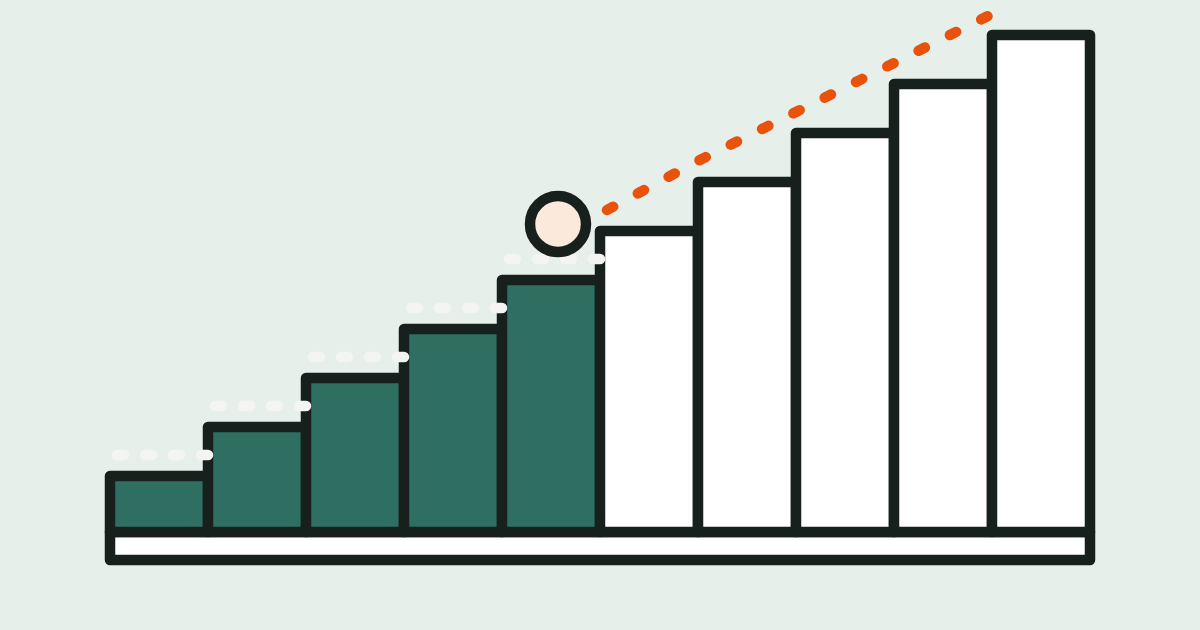
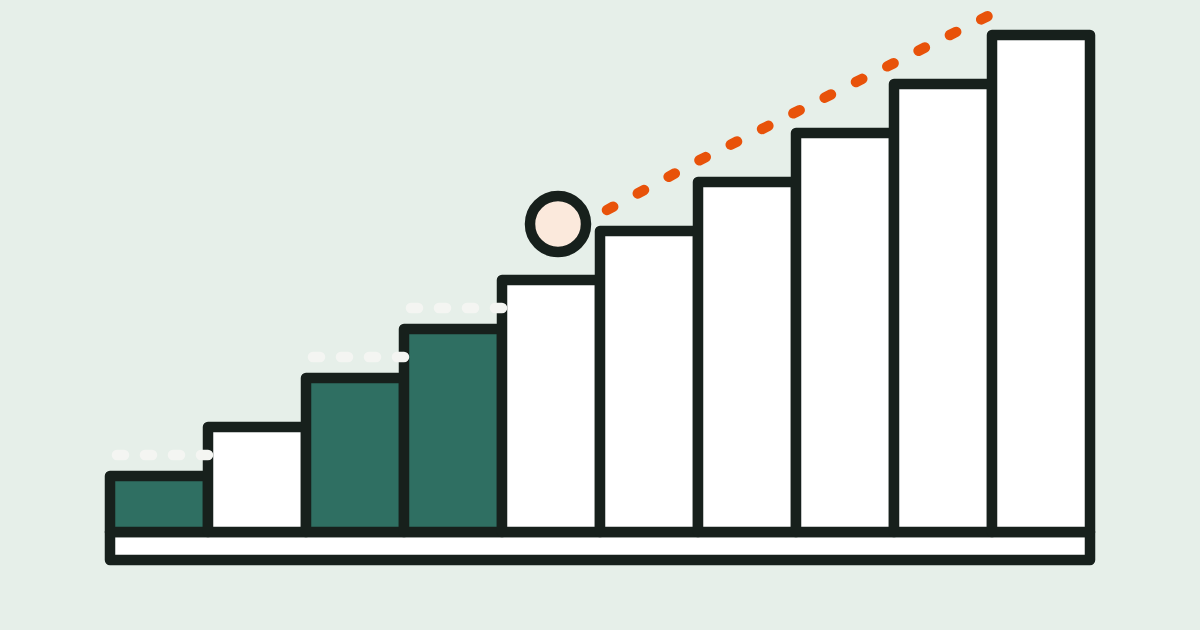
fix(blog): apply validator fixes to wave 4 posts

diff --git a/blog/_src/ten-simple-rules-reproducible-research-revisited/post.md b/blog/_src/ten-simple-rules-reproducible-research-revisited/post.md
@@ -6,16 +6,16 @@ date: 2026-10-19
 updated: 2026-10-19
 tags: reproducibility, provenance, bioinformatics
 summary: Ten rules from a 2013 paper, read against today's workflow tools: which ones tools help with, and which are still open.
-image_alt: A staircase of ten steps where the lower steps are covered in a green carpet and the upper steps are bare, with a small orange dotted line marking the climb.
+image_alt: A staircase of ten steps where only three of the lower steps are filled green and the rest are bare white, with an orange dotted line marking the climb.
 ---
 
-In 2013, Sandve, Nekrutenko, Taylor and Hovig published "Ten Simple Rules for Reproducible Computational Research" in PLOS Computational Biology.[^1] It is a paper we keep coming back to. Workflow engines have changed since 2013, and we wonder how much of the history they now keep for you. So we wanted to go back through the ten rules one at a time and ask: which of them does a tool now help with, which still depend on people, and where are we not sure?
+In 2013, Sandve, Nekrutenko, Taylor and Hovig published "Ten Simple Rules for Reproducible Computational Research" in PLOS Computational Biology.[^1] It is a paper we keep coming back to. So we wanted to go back through the ten rules one at a time and ask: which of them does a tool now help with, which still depend on people, and where are we not sure?
 
 We are quoting the rule headings as printed and paraphrasing as little as we can. We have not tested any tool against the rules, and nothing here is a verdict on a tool or a lab.
 
 ## Does the paper expect tools to help?
 
-It does. The authors note that when analyses run inside an integrated framework, the system may already provide full or partial support for most of the rules.[^1] The rest of this post is, in effect, a question about how far that sentence has come true.
+It does. The authors note that when analyses run inside an integrated framework, the system may already provide full or partial support for most of the rules.[^1] The frameworks they name are GenePattern, Galaxy, LONI Pipeline and Taverna.[^1] We wonder whether workflow engines such as Nextflow and Snakemake now fill a similar role, and the rest of this post asks that rule by rule.
 
 ## The ten rules, and what we found
 
@@ -25,7 +25,7 @@ The rule titles below are quoted from the paper.[^1] The notes after each are wh
 2. **"Avoid Manual Data Manipulation Steps."** The paper says: "Whenever possible, rely on the execution of programs instead of manual procedures to modify data."[^1] A workflow engine records what it runs. We do not see how it could record what happened to a file in a spreadsheet, which makes this rule feel mostly about people.
 3. **"Archive the Exact Versions of All External Programs Used."** Snakemake's documentation describes pinning exact package versions in an environment file, a `<platform>.pin.txt` that freezes an environment, and storing each environment under a hash of its definition.[^5] Nextflow's documentation advises defining a specific version for each tool.[^6] Whether a particular pipeline does so is up to its authors.
 4. **"Version Control All Custom Scripts."** Nextflow's documentation notes that Git and Docker track changes over time with version control.[^6] Whether the *run* knows which commit it used is a separate question we have not tested.
-5. **"Record All Intermediate Results, When Possible in Standardized Formats."** We did not find a source on what engines keep by default, so we leave this open.
+5. **"Record All Intermediate Results, When Possible in Standardized Formats."** Nextflow's lineage page mentions intermediate data, but the feature is experimental and we did not read closely what it keeps, so we leave this open.
 6. **"For Analyses That Include Randomness, Note Underlying Random Seeds."** We found nothing in the documentation we read about engines recording seeds, so we leave this open.
 7. **"Always Store Raw Data behind Plots."** This concerns how figures are made; we found no tool documentation that addresses it.
 8. **"Generate Hierarchical Analysis Output, Allowing Layers of Increasing Detail to Be Inspected."** The paper suggests this as a way of presenting results. We did not look for tools that do it.
@@ -34,7 +34,7 @@ The rule titles below are quoted from the paper.[^1] The notes after each are wh
 
 ## A newer framing
 
-A 2023 paper in Briefings in Bioinformatics by Ziemann, Poulain and Bora names five pillars of computational reproducibility: literate programming, code version control and sharing, compute environment control, persistent data sharing, and documentation.[^2] We find it interesting that environment control and documentation appear as pillars of their own, because those are where a run's history tends to be thin. It is a different cut from the ten rules rather than a replacement, and we have only read the abstract-level description of the pillars closely.
+A 2023 paper in Briefings in Bioinformatics by Ziemann, Poulain and Bora names five pillars of computational reproducibility: literate programming, code version control and sharing, compute environment control, persistent data sharing, and documentation.[^2] We find it interesting that environment control and documentation appear as pillars of their own, because those may be where a run's history is thinnest; we have not checked. It is a different cut from the ten rules rather than a replacement, and we have only read the abstract-level description of the pillars closely.
 
 ## A pattern in the list
 
@@ -51,7 +51,7 @@ For the engine side of rule 1, our guide on [Nextflow provenance and lineage com
 ## Questions we are still asking
 
 - Do engines record random seeds, and if so, where? We did not find it in the documentation we read.
-- What do Nextflow and Snakemake keep as intermediate results by default, and for how long? We left rule 5 open for that reason.
+- What do Nextflow and Snakemake keep as intermediate results, and for how long? We left rule 5 open for that reason.
 - Is the divide we noticed, tools for rules 1, 3 and 4 and people for the rest, real? A broader reading of the documentation might change it.
 - Would a record that marks manual steps as manual change how people behave around rule 2? We do not know.
 - Which of the ten rules would a modern list drop, merge or add? The 2023 paper's five pillars suggest the answer is not obvious.

diff --git a/blog/_src/conda-environments-genomics-export-history-lock/post.md b/blog/_src/conda-environments-genomics-export-history-lock/post.md
@@ -6,7 +6,7 @@ date: 2026-10-19
 updated: 2026-10-19
 tags: conda, environments, provenance
 summary: Three ways to save a conda environment, what each keeps in a small test, and what we still wonder about for genomics.
-image_alt: Three glass jars in a row on a shelf: one holding loose green leaves, one holding a single pressed leaf, and one sealed capsule with an orange dotted line looping around it.
+image_alt: Three glass jars in a row on a shelf: one holding loose green sprigs, one holding a single pressed leaf, and a sealed capsule crossed by a straight orange dotted line.
 ---
 
 Pipelines and analyses often rely on a conda environment, and sooner or later someone asks for it: which tools, which versions, from where? Conda gives you a few ways to write an environment down, and they keep different things. This post compares three of them, shows what each produced in a small test we ran, and lists what we could not settle, especially for genomics work that leans on Bioconda.
@@ -30,7 +30,7 @@ dependencies:
   - tqdm=4.70.1=pyhfa0c392_0
 ```
 
-That is a lot of detail, and it names the channel. The documentation warns that without the `--from-history` flag, installing from such a file can introduce packages that may not be compatible across platforms.[^1] Some of the build strings in our output, like those for compiled libraries, look platform-specific, but we did not test installing the file on another operating system, so that remains a question for us. The same documentation says the recommended way to export is the newer `conda export` command, which also produced YAML for our environment.[^1]
+That is a lot of detail, and it names the channel. The documentation warns that without the `--from-history` flag, installing from such a file can introduce packages that may not be compatible across platforms.[^1] Some of the build strings in our output, like those for compiled libraries, look platform-specific, but we did not test installing the file on another operating system, so that remains a question for us. The same documentation says the recommended way to export is the newer `conda export` command, which also produced YAML for our environment.[^1] The documentation also says native lockfile export needs conda 26.5 or later; we ran 25.11.1 and did not test it.
 
 ## Option 2: only what you asked for
 
@@ -43,13 +43,13 @@ dependencies:
   - tqdm
 ```
 
-Two things stand out. There is no version at all, so tomorrow's install may give a different `tqdm` from today's. And the channel list shows only `defaults`: we had installed from conda-forge using a command-line option, and the history output did not carry that over. We saw this once, in one setup, and we do not know whether it is general. It is a reason to put the channels you rely on in the file yourself.
+Two things stand out. There is no version at all, so tomorrow's install may give a different `tqdm` from today's. And the channel list shows only `defaults`: we had installed from conda-forge using a command-line option, and the history output did not carry that over. The conda documentation's own example for `--from-history` shows conda-forge kept in the output, so our result differs from it. We saw the channel lost in three ways of creating the environment, and we do not know why or whether it is general. It is a reason to put the channels you rely on in the file yourself.
 
 For genomics this matters. Bioconda's own instructions tell users to add the bioconda and conda-forge channels and set strict channel priority, and say the order is important to avoid problems when solving dependencies.[^3] An environment file that loses a channel could solve differently elsewhere, though we have not reproduced that.
 
 ## Option 3: a lock file
 
-A lock file records the resolved packages so that installing does not have to solve again. The conda-lock project describes itself as a lightweight library for generating fully reproducible lock files for conda environments, produced by solving for the platforms you choose, and it can read an `environment.yml` as input.[^2] We read its documentation but did not install or run conda-lock for this post, so we cannot say how it behaves on a real Bioconda environment.
+A lock file records the resolved packages. The conda-lock project advertises solveless installation from its lock files, meaning installing does not have to run the solver again.[^2] The conda-lock project describes itself as a lightweight library for generating fully reproducible lock files for conda environments, produced by solving for the platforms you choose, and it can read an `environment.yml` as input.[^2] We read its documentation but did not install or run conda-lock for this post, so we cannot say how it behaves on a real Bioconda environment.
 
 Conda itself also has an `explicit` export format with platform-specific URLs.[^1] In our test, `conda list --explicit` produced one URL per package, such as `https://conda.anaconda.org/conda-forge/linux-64/libzlib-1.3.2-h25fd6f3_3.conda`. The conda documentation says explicit files are usually limited to a single platform, whereas lock files can support multiple platforms.[^1]
 

diff --git a/blog/_src/samplesheet-traps-that-change-your-run/post.md b/blog/_src/samplesheet-traps-that-change-your-run/post.md
@@ -9,17 +9,17 @@ summary: A samplesheet is an input like any other. Five ways a small CSV goes wr
 image_alt: A spreadsheet grid on a pale background with one cell holding a small ghost, and an orange dotted line leading from the grid to a small stack of pages.
 ---
 
-Many Nextflow pipelines start from a small CSV file: one row per sample, a few columns, and paths to the reads. It looks like configuration, so it tends to be edited by hand, in a spreadsheet, and then forgotten. This post collects a few ways that file can go wrong, some loudly and some quietly, and asks what it would mean to treat the samplesheet as an input that deserves a record.
+Nextflow pipelines commonly start from a small CSV file: one row per sample, a few columns, and paths to the reads. It looks like configuration, so it may be edited by hand, in a spreadsheet, and then forgotten. This post collects a few ways that file can go wrong, some loudly and some quietly, and asks what it would mean to treat the samplesheet as an input that deserves a record.
 
 ## Why the sheet deserves attention
 
-A pipeline can only process what the samplesheet tells it about. If a row is missing, mistyped or points at the wrong file, the pipeline may stop with an error, which is the good case. The bad case is a run that finishes happily with a different set of inputs than you meant. Nothing in the results file will say so.
+A pipeline can only process what the samplesheet tells it about. If a row is missing, mistyped or points at the wrong file, the pipeline may stop with an error, which is the good case. The bad case is a run that finishes happily with a different set of inputs than you meant. The results file may carry no sign of it.
 
 We have not measured how often this happens, and we do not know. What we can do is read what pipeline maintainers and platform documentation say about the failures they have seen.
 
 ## Trap 1: the file that looks right but is not
 
-A public issue on the nf-core/rnaseq repository shows the pattern. A user running version 3.3 got an error that compared two header lines that looked identical: the sheet header against the expected `sample,fastq_1,fastq_2,strandedness`.[^1] The reporter traced it to a bad CSV conversion from Excel, and fixed it by saving the file as UTF-8 without a byte order mark, with Unix line endings instead of Windows ones.[^1]
+A public issue on the nf-core/rnaseq repository shows the pattern. A user running version 3.3 got an error that compared two header lines that looked identical: the sheet header against the expected `sample,fastq_1,fastq_2,strandedness`.[^1] The reporter wrote that it was a bad CSV conversion from Excel, and fixed it by saving the file as UTF-8 without a byte order mark (an invisible marker some programs add at the start of a file), with Unix line endings instead of Windows ones.[^1] A maintainer replied that it had come up a few times but was difficult to test and reproduce, and a fix was merged and the issue closed in October 2021.[^1] We do not know whether current releases are affected.
 
 That is one report about one pipeline version, and we cannot say how common it is. It is a useful illustration, though: characters that you cannot see in a spreadsheet can change what a program reads. If you open a CSV in a spreadsheet application and save it again, it is worth asking what the application changed.
 
@@ -33,7 +33,7 @@ Again, this tends to fail loudly: a missing file stops the run. The quieter vari
 
 ## Trap 3: columns that mean different things in different versions
 
-Samplesheet columns are part of a pipeline's interface, and interfaces change. A DNAnexus training page about CSV builder applets for nf-core pipelines notes that each applet is built for specific pipeline versions, and warns that if the pipeline is updated with changes to required columns, validation rules or accepted values, an applet still validating against the older schema may give unexpected errors or incorrect output.[^3] Its troubleshooting table gives one example: for the proteinfold pipeline, version 1.1.1 expects a sequence column and version 2.0.0 expects an id column.[^3]
+Samplesheet columns are part of a pipeline's interface, and interfaces change. A DNAnexus training page about CSV builder applets for nf-core pipelines notes that each applet is built for specific pipeline versions, and warns that if the pipeline is updated with changes to required columns, validation rules or accepted values, an applet still validating against the older schema may give unexpected errors or incorrect output.[^3] Its troubleshooting table names a sequence column for proteinfold v1.1.1 and an id column for v2.0.0; that comes from DNAnexus's applet table, and we did not check proteinfold's own documentation.[^3]
 
 Note that this is a statement about that vendor's tooling and two named versions. We have not compared samplesheet formats across versions of other pipelines. It does suggest a habit: when you upgrade a pipeline, check the sheet format against the new version's documentation rather than assuming last year's file still means the same thing.
 

diff --git a/blog/_src/pipeline-version-numbers-two-conventions/post.md b/blog/_src/pipeline-version-numbers-two-conventions/post.md
@@ -43,9 +43,9 @@ We lay out three cases and mark what each document says, and what it does not.
 
 So the honest summary is that the two documents ask different questions. nf-core's page is organised around compatibility for the user of the pipeline. BALSAMIC's is organised around the structure of the workflow and whether its outputs change. We would not say either is wrong; they seem to be written for different purposes.
 
-## A real question from the community
+## One forum thread
 
-A maintainer of the nf-core/pacvar pipeline asked on the Seqera community forum whether the release after 1.0.1 should be 1.1.0 or 2.0.0, after several modules had been added. One reply pointed to the nf-core semantic versioning documentation and, based solely on the details shared, saw no breaking changes and suggested 1.1.0.[^3] That is one thread, and we do not know what the maintainer chose. We include it only because it shows that even within one convention, people ask.
+In May and June 2026, someone working on nf-core/pacvar asked on the Seqera community forum whether the release after 1.0.1 should be 1.1.0 or 2.0.0, after several modules had been added. One reply pointed to the nf-core semantic versioning documentation and, based solely on the details shared, saw no breaking changes and suggested 1.1.0.[^3] We do not know what they chose. This is a single forum thread, and nothing above depends on it; we include it only because it shows that even within one convention, people ask.
 
 ## What to write down either way
 

diff --git a/blog/_src/sample-swaps-tools-and-what-a-run-record-says/post.md b/blog/_src/sample-swaps-tools-and-what-a-run-record-says/post.md
@@ -21,7 +21,7 @@ Those descriptions come from large public datasets and a cancer cohort. We do no
 
 ## What the tools look at
 
-All three papers we read take the same broad approach: compare genetic information between samples and flag pairs that do not match what the sample sheet says.
+All three papers we read take the same broad approach: compare genetic information between samples and flag pairs that disagree with the expected relationship between samples.
 
 - **HYSYS.** According to its paper, it estimates relatedness between samples in cancer cohorts using the concordance of homozygous germline SNPs, and it tests for swaps and contamination. Its output includes heat maps for visual checks and a Gaussian mixture model that labels each pair as unrelated, related or neither.[^1]
 - **Somalier.** The paper describes a tool that evaluates relatedness from sequencing data, working on BAM or CRAM files or on VCF, BCF or GVCF files, without needing jointly called germline variants. It counts reference and alternate alleles at a fixed set of sites, and produces text output and an interactive plot in which expected groups, such as tumor-normal pairs, can be coloured so that mismatches stand out.[^3] The authors also say it can estimate a sample's sex from X and Y sites, and its plots compare predicted with reported sex.[^3]
